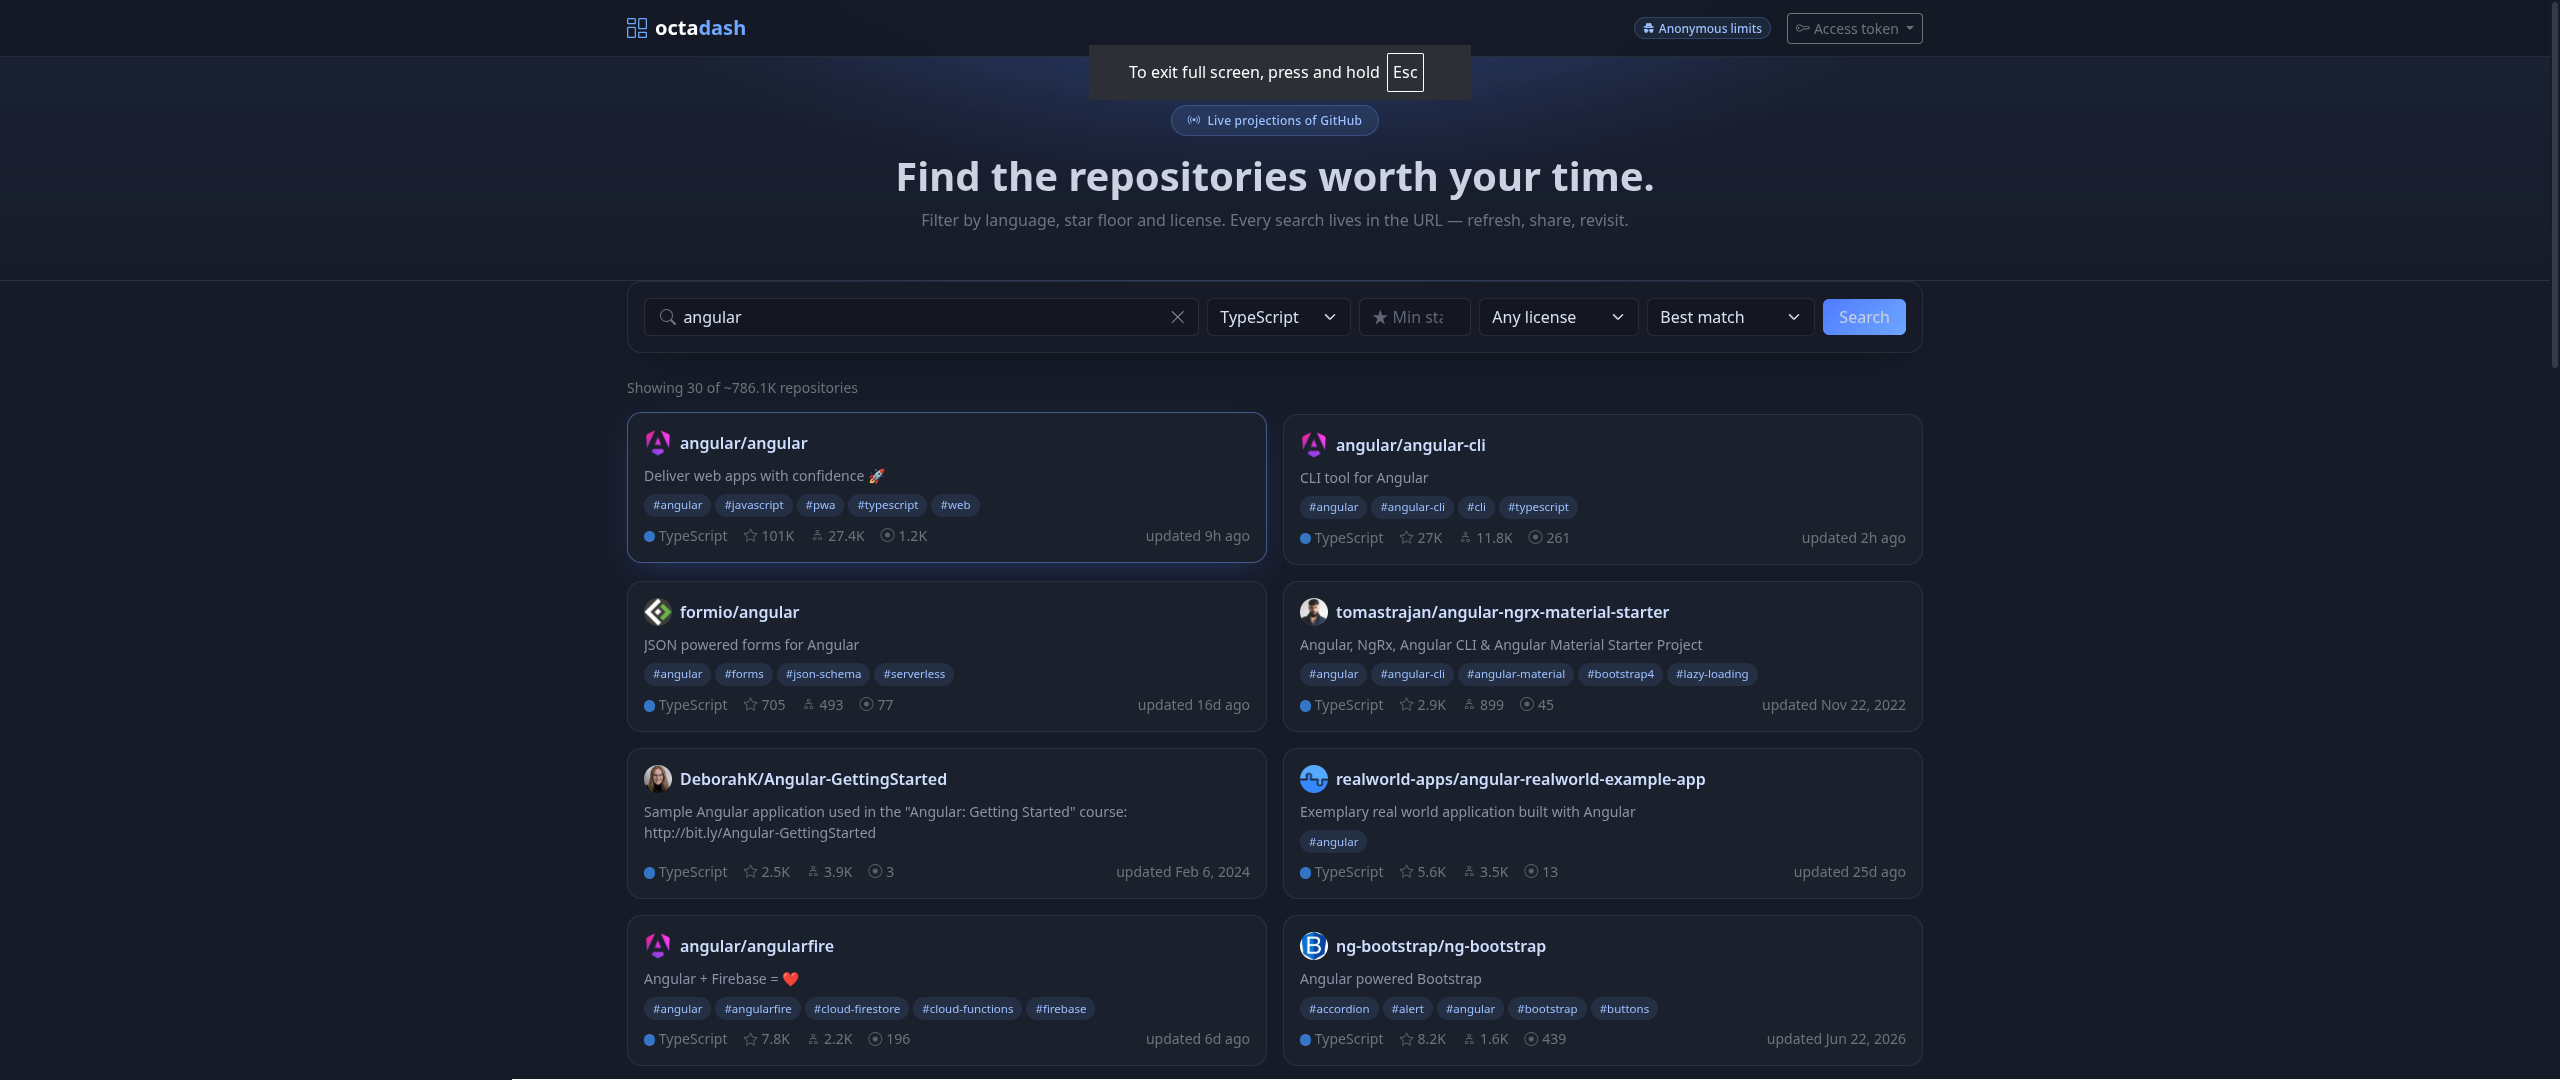
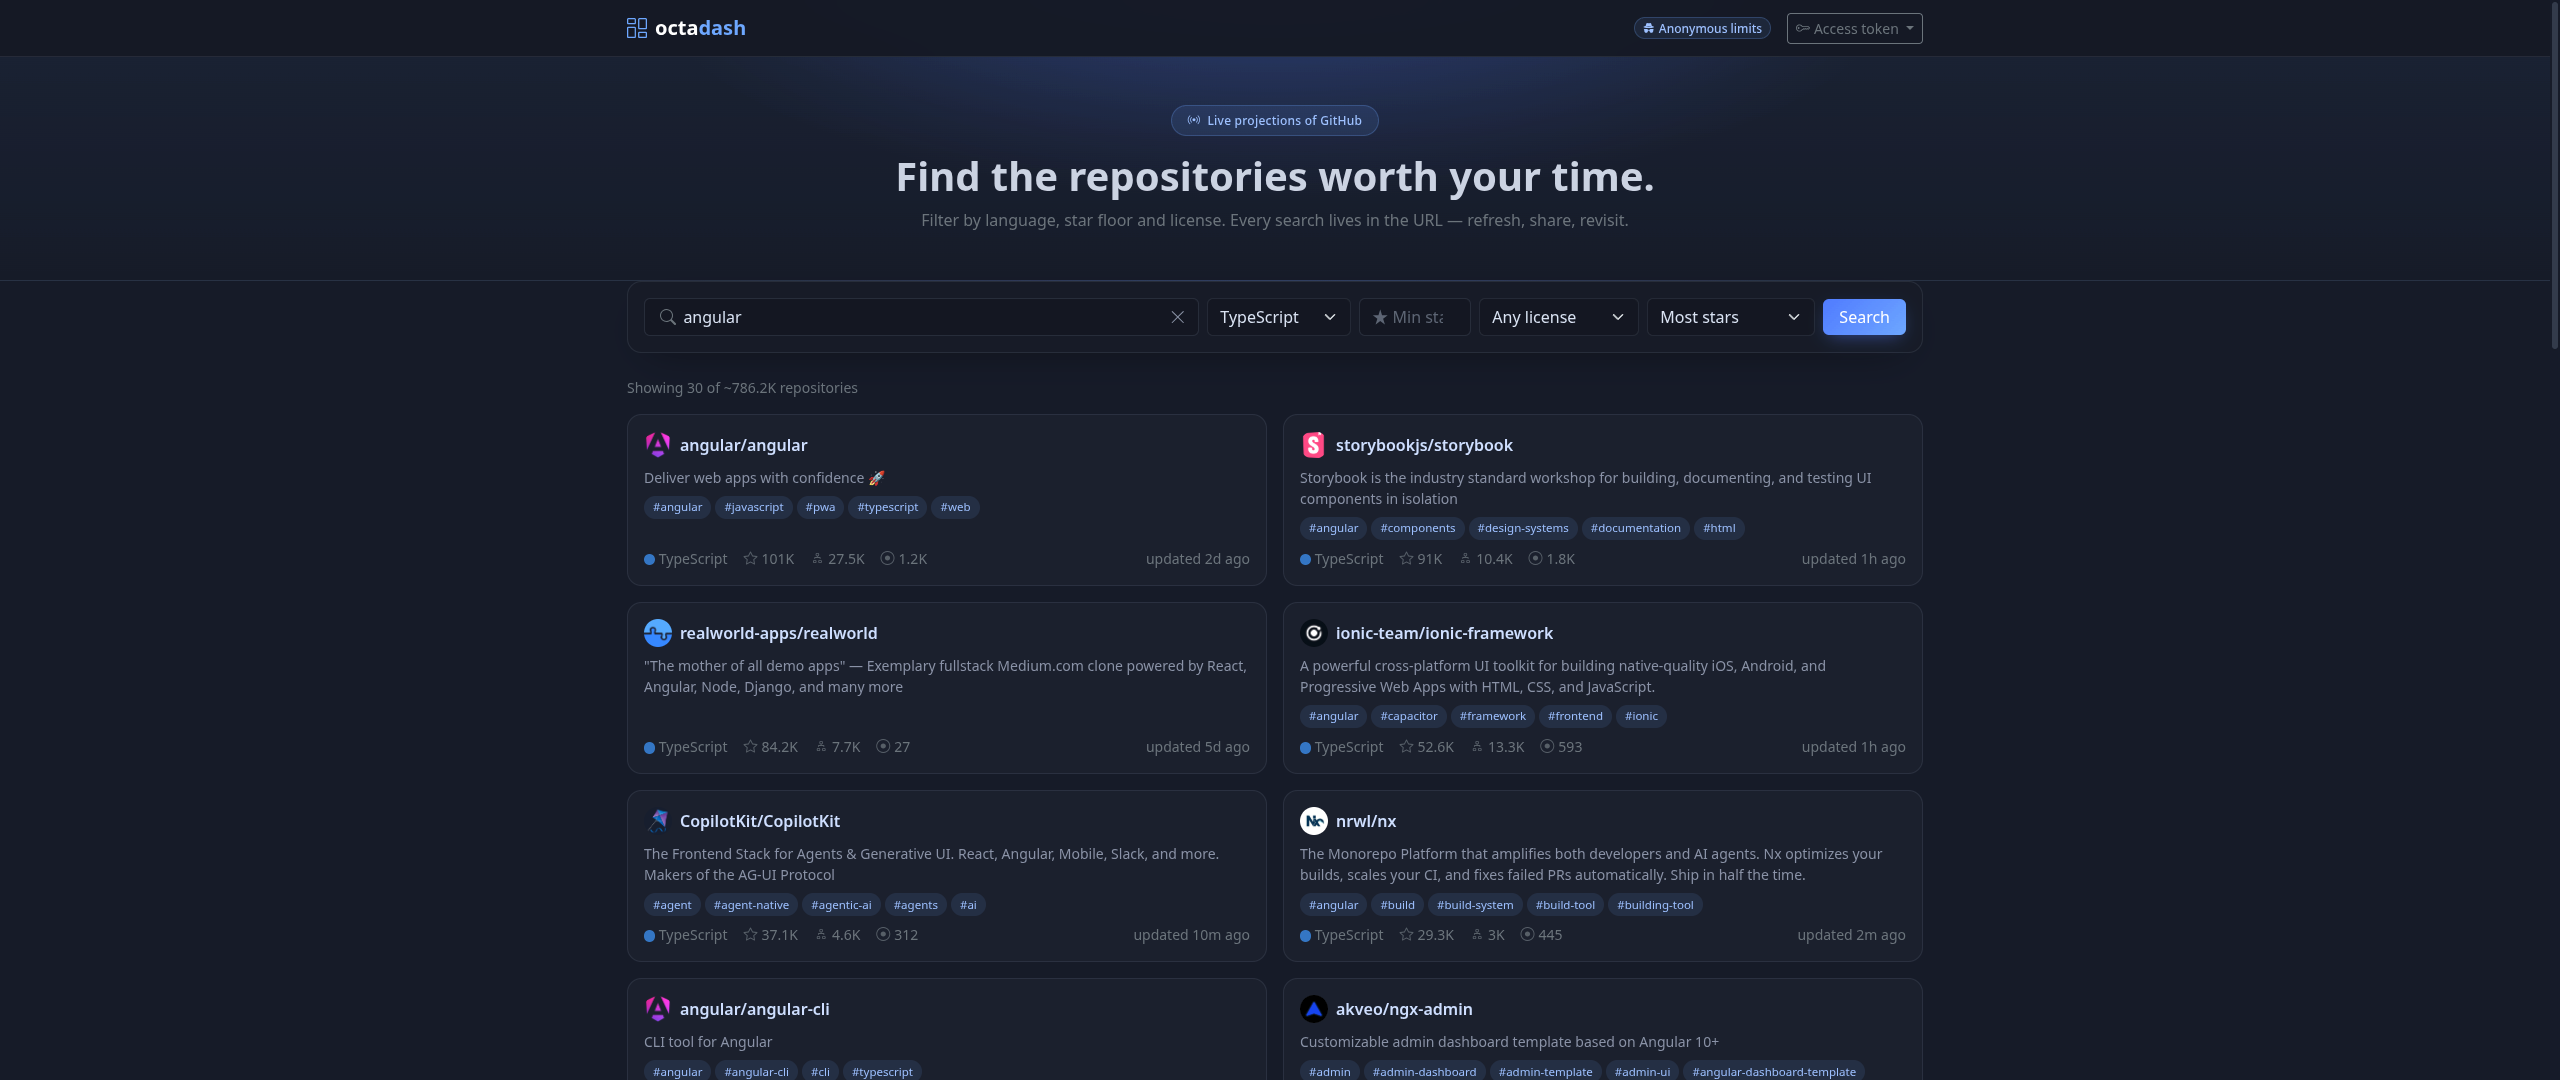
Update README.md

diff --git a/README.md b/README.md
@@ -35,11 +35,23 @@ Every search lives in the URL — refresh, share, revisit. All requests go direc
 
 ## Screenshots
 
-| Search | Results | Dashboard |
-| --- | --- | --- |
-| ![Search bar with filters](assets/search.png) | ![Search results grid with repo cards](assets/search_result.png) | ![Repository dashboard with charts and stats](assets/dashboard.png) |
+### Search
 
-*Left: hero search with language/stars/license/sort controls. Center: repo cards with infinite scroll. Right: repo dashboard — snapshot, commit chart, languages doughnut, leaderboard.*
+![Search bar with filters](assets/search.png)
+
+Hero search with language, stars, license and sort controls.
+
+### Results
+
+![Search results grid with repo cards](assets/search_result.png)
+
+Repository cards with infinite scroll.
+
+### Dashboard
+
+![Repository dashboard with charts and stats](assets/dashboard.png)
+
+Repository dashboard with snapshot, commit chart, languages doughnut and contributor leaderboard.
 
 ---
 
@@ -225,4 +237,3 @@ assets/
 - [GitHub rate limiting](https://docs.github.com/en/rest/using-the-rest-api/rate-limits-for-the-rest-api)
 - [Angular documentation](https://angular.dev)
 - [Bootstrap 5 docs](https://getbootstrap.com/docs/5.3/getting-started/introduction/)
-
